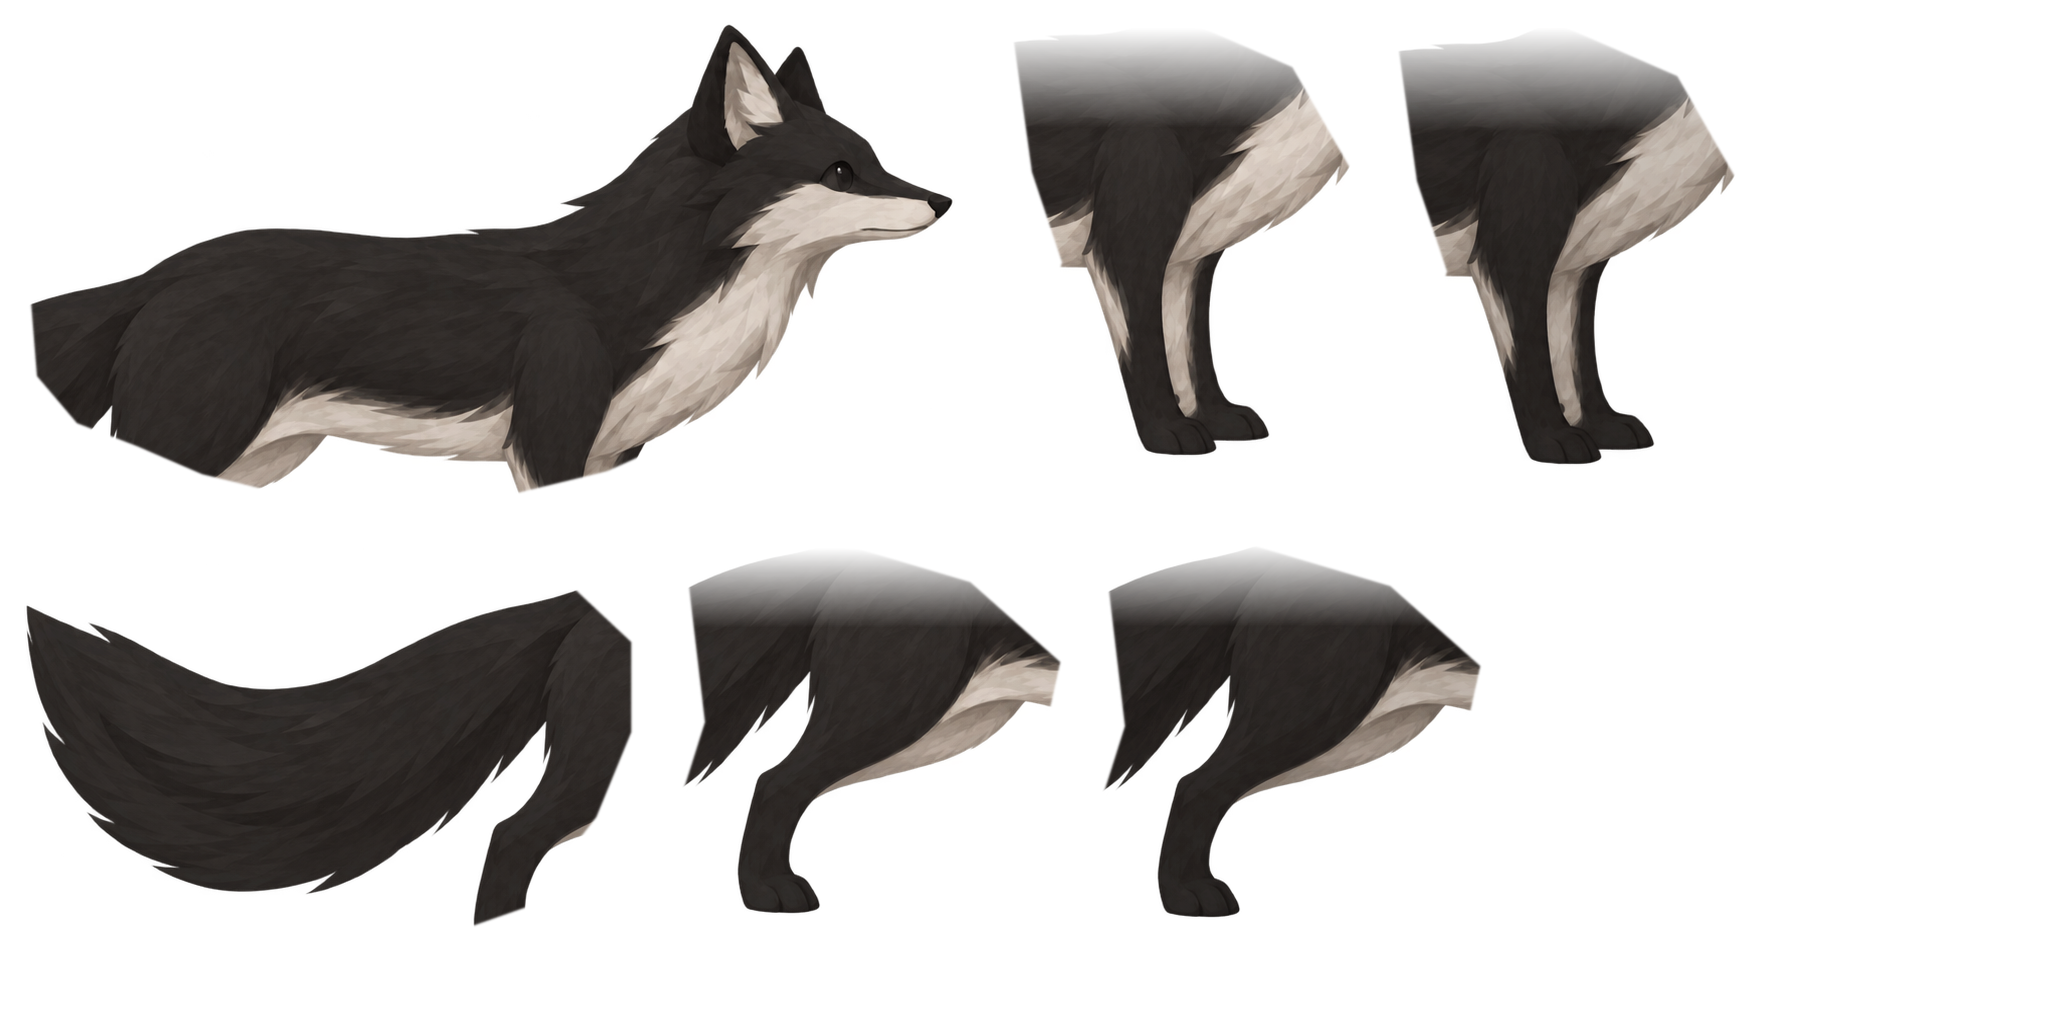
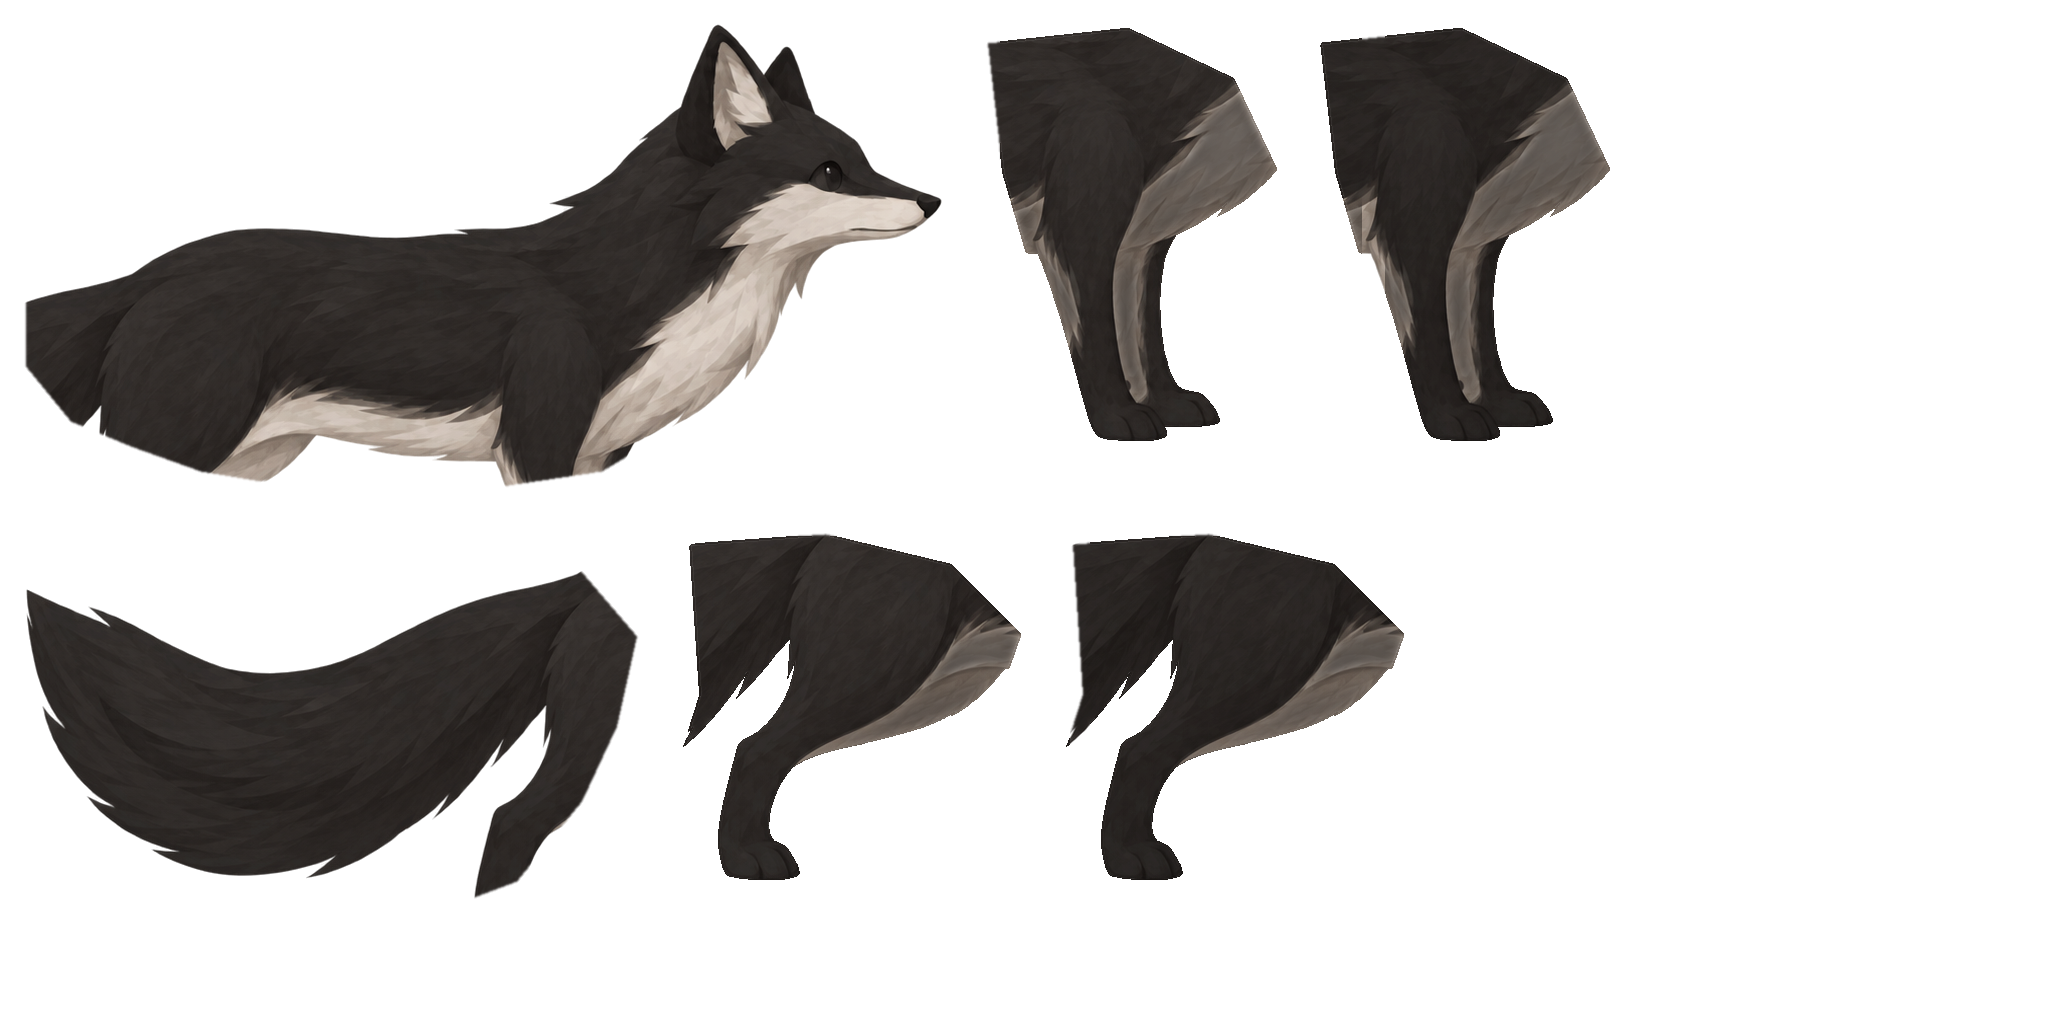
Add files via upload

diff --git a/anim-lab-mesh.js b/anim-lab-mesh.js
@@ -18,37 +18,43 @@
       id:'tail', label:'Tail', order:0, topology:'chain', artRect:{x:16,y:536,w:630,h:404},
       parts:['tail_base','tail_mid','tail_tip'],
       subdivisions:3, scanHalfWidth:.115, maxCap:.070, widthPad:.0035,
-      bones:[['tail0','tail1'],['tail1','tail2'],['tail2','tail3']]
+      bones:[['tail0','tail1'],['tail1','tail2'],['tail2','tail3']],
+      attachBone:['rearBody','midRoot'], attachBlendDistance:.11, attachStrength:.2
     },
     {
       id:'rearFar', label:'Rear Far Leg', order:1, topology:'chain', artRect:{x:1090,y:536,w:400,h:393},
       parts:['far_rear_upper','far_rear_lower_prox','far_rear_lower_dist'],
       subdivisions:3, scanHalfWidth:.075, maxCap:.052, widthPad:.003,
-      bones:[['rearFarRoot','rearFarKnee'],['rearFarKnee','rearFarHock'],['rearFarHock','rearFarFoot']]
+      bones:[['rearFarRoot','rearFarKnee'],['rearFarKnee','rearFarHock'],['rearFarHock','rearFarFoot']],
+      attachBone:['rearBody','midRoot'], attachBlendDistance:.115, attachStrength:.32
     },
     {
       id:'frontFar', label:'Front Far Leg', order:2, topology:'chain', artRect:{x:1385,y:16,w:362,h:458},
       parts:['far_front_upper','far_front_lower_prox','far_front_lower_dist'],
       subdivisions:3, scanHalfWidth:.075, maxCap:.052, widthPad:.003,
-      bones:[['frontFarRoot','frontFarKnee'],['frontFarKnee','frontFarWrist'],['frontFarWrist','frontFarFoot']]
+      bones:[['frontFarRoot','frontFarKnee'],['frontFarKnee','frontFarWrist'],['frontFarWrist','frontFarFoot']],
+      attachBone:['midRoot','frontBody'], attachBlendDistance:.12, attachStrength:.4
     },
     {
       id:'bodyHead', label:'Body + Head', order:3, topology:'grid', artRect:{x:16,y:16,w:947,h:491},
       parts:['torso','head_neck'],
       grid:[9,5],
+      fit:{scaleX:.91,scaleY:.90,offsetYPct:.055},
       bones:[['rearBody','midRoot'],['midRoot','frontBody'],['frontBody','neck'],['neck','head']]
     },
     {
       id:'rearNear', label:'Rear Near Leg', order:4, topology:'chain', artRect:{x:670,y:536,w:400,h:389},
       parts:['near_rear_upper','near_rear_lower_prox','near_rear_lower_dist'],
       subdivisions:3, scanHalfWidth:.075, maxCap:.052, widthPad:.003,
-      bones:[['rearNearRoot','rearNearKnee'],['rearNearKnee','rearNearHock'],['rearNearHock','rearNearFoot']]
+      bones:[['rearNearRoot','rearNearKnee'],['rearNearKnee','rearNearHock'],['rearNearHock','rearNearFoot']],
+      attachBone:['rearBody','midRoot'], attachBlendDistance:.115, attachStrength:.35
     },
     {
       id:'frontNear', label:'Front Near Leg', order:5, topology:'chain', artRect:{x:1000,y:16,w:362,h:449},
       parts:['near_front_upper','near_front_lower_prox','near_front_lower_dist'],
       subdivisions:3, scanHalfWidth:.075, maxCap:.052, widthPad:.003,
-      bones:[['frontNearRoot','frontNearKnee'],['frontNearKnee','frontNearWrist'],['frontNearWrist','frontNearFoot']]
+      bones:[['frontNearRoot','frontNearKnee'],['frontNearKnee','frontNearWrist'],['frontNearWrist','frontNearFoot']],
+      attachBone:['midRoot','frontBody'], attachBlendDistance:.12, attachStrength:.44
     }
   ];
 
@@ -57,7 +63,7 @@
   const TEXELS_PER_LOCAL = 900;
   const ALPHA_THRESHOLD = 10;
   const caches = new Map();
-  const ART_VERSION = '1.0.169';
+  const ART_VERSION = '1.0.171';
   const DEFORM_ATLAS_FILE = 'fox-deform-atlas-v1.png';
   let deformAtlas = null;
   let artRevision = 0;
@@ -243,8 +249,8 @@
     const ranked=bones.map((bone,index)=>{
       const a=bindGeom[bone[0]],b=bindGeom[bone[1]];
       const d=pointSegmentDistance(point,a,b);
-      return {index,score:1/(d*d+0.00055)};
-    }).sort((a,b)=>b.score-a.score).slice(0,2);
+      return {index,score:1/Math.pow(d+0.022,1.7)};
+    }).sort((a,b)=>b.score-a.score).slice(0,3);
     const total=ranked.reduce((s,x)=>s+x.score,0)||1;
     return ranked.map(x=>({index:x.index,weight:x.score/total}));
   }
@@ -470,7 +476,25 @@
       // region keeps a known clean rectangle, then fits into the already-approved
       // bind-space region without changing rig proportions or animation keys.
       const r=dedicated.rect;
-      rctx.drawImage(dedicated.image,r.x,r.y,r.w,r.h,PAD,PAD,Math.max(1,raw.width-PAD*2),Math.max(1,raw.height-PAD*2));
+      const fit=def.fit||{};
+      const innerW=Math.max(1,raw.width-PAD*2), innerH=Math.max(1,raw.height-PAD*2);
+      const scaleX=fit.scaleX ?? fit.scale ?? 1;
+      const scaleY=fit.scaleY ?? fit.scale ?? 1;
+      const drawW=Math.max(1,innerW*scaleX), drawH=Math.max(1,innerH*scaleY);
+      const alignX=fit.alignX ?? .5, alignY=fit.alignY ?? .5;
+      const dx=PAD + (innerW-drawW)*alignX + innerW*(fit.offsetXPct||0) + (fit.offsetX||0);
+      const dy=PAD + (innerH-drawH)*alignY + innerH*(fit.offsetYPct||0) + (fit.offsetY||0);
+      rctx.drawImage(dedicated.image,r.x,r.y,r.w,r.h,dx,dy,drawW,drawH);
+      if(def.topology==='chain'){
+        const image=rctx.getImageData(0,0,raw.width,raw.height);
+        const data=image.data;
+        for(let i=0;i<data.length;i+=4){
+          const a=data[i+3];
+          if(a<70){ data[i+3]=0; continue; }
+          if(a<220)data[i+3]=255;
+        }
+        rctx.putImageData(image,0,0);
+      }
     }else{
       // Safe fallback while images are loading/offline: rebuild from the rigid atlas
       // exactly as M1.1 did, so Deform never disappears because one source failed.
@@ -526,7 +550,21 @@
     const points=region.chainIds.map(id=>poseGeom[id]).filter(Boolean);
     if(points.length!==region.chainIds.length)return vertex.bind;
     const metrics=chainMetrics(points),frame=chainFrame(points,metrics,vertex.chainS);
-    return {x:frame.center.x+frame.normal.x*vertex.offset,y:frame.center.y+frame.normal.y*vertex.offset};
+    let out={x:frame.center.x+frame.normal.x*vertex.offset,y:frame.center.y+frame.normal.y*vertex.offset};
+    const attach=region.attachBone;
+    if(attach&&region.bindGeom&&typeof region.attachBlendDistance==='number'&&region.attachBlendDistance>0){
+      const bindA=region.bindGeom[attach[0]], bindB=region.bindGeom[attach[1]];
+      const poseA=poseGeom[attach[0]], poseB=poseGeom[attach[1]];
+      if(bindA&&bindB&&poseA&&poseB){
+        const attachPos=mapByBone(vertex.bind,bindA,bindB,poseA,poseB);
+        const s=Math.max(0,vertex.chainS||0);
+        const rootBlend=1-clamp(s/region.attachBlendDistance,0,1);
+        const offsetBlend=1-clamp(Math.abs(vertex.offset)/0.085,0,1)*0.35;
+        const t=clamp((region.attachStrength||0.3)*rootBlend*(0.65+offsetBlend),0,0.85);
+        out=lerpPoint(out,attachPos,t);
+      }
+    }
+    return out;
   }
 
   function affineFromTriangles(s0,s1,s2,d0,d1,d2){

diff --git a/walk-lab.html b/walk-lab.html
@@ -133,7 +133,7 @@
   <script src="fox-rig.js?v=1.0.163"></script>
   <script src="walk-lab.js?v=1.0.167"></script>
   <script src="anim-lab-stage2.js?v=1.0.164"></script>
-  <script src="anim-lab-mesh.js?v=1.0.169"></script>
+  <script src="anim-lab-mesh.js?v=1.0.171"></script>
   <script src="anim-lab-stage3.js?v=1.0.163"></script>
   <script src="anim-lab-stage4.js?v=1.0.164"></script>
   <script src="anim-lab-reference.js?v=1.0.163"></script>

diff --git a/README.md b/README.md
@@ -1,34 +1,37 @@
-# SideScroll patch 1.0.169 — Approved charcoal Fox deform atlas
+SideScroll / Aureli
+SS-PATCH-1.0.171
 
-Apply this patch **after 1.0.168**. This ZIP contains only files changed for 1.0.169.
+Patch type
+- changed-files patch for this drop
+- this one also re-bundles the key 1.0.170 deform-fox files because the previous link/share was unclear
 
-## Purpose
+What changed in 1.0.171
+- kept the deform fox atlas from 1.0.170
+- reduced the live fox body/head draw fit in deform mode
+- lowered the body/head placement slightly so live art lines up better with the approved Fox Shape reference in Rig mode
+- bumped the mesh script cache/version query so Safari reloads the updated fit
 
-1.0.168 proved the six-piece deform-art path, but the source pieces came from an exploratory intermediate sheet. This pass replaces that with one clean, deliberately packed atlas cut directly from the already-approved charcoal Fox reference.
+Files in this patch
+- README.md
+- SIDESCROLL_CHARACTER_AUTHORING.md
+- SIDESCROLL_TASKS.md
+- fox-deform-atlas-v1.png
+- anim-lab-mesh.js
+- walk-lab.html
 
-## What changed
+Install
+1. Start from your current SideScroll build.
+2. Copy these files into the project root and replace the existing files.
+3. Hard refresh / close and reopen the PWA if Safari appears cached.
 
-- Added **`fox-deform-atlas-v1.png`**: a 2048 × 1024 transparent deform atlas built directly from `fox-reference-charcoal.png`.
-- The atlas contains six clearly separated regions: Body + Head, Tail, Front Near, Front Far, Rear Near and Rear Far.
-- Front/rear far limbs are derived from the same approved source and slightly darkened for depth rather than being independently regenerated artwork.
-- Near-leg roots use a soft overlap into the shoulder/hip so the next weighting pass can blend them into the body without exposing a hard rectangular cap.
-- `anim-lab-mesh.js` now loads **one atlas** and uses explicit source rectangles for all six meshes instead of loading six unrelated PNGs.
-- The M1.1 topology, twist-safe chain binding, 1.0.167 gesture-performance work, rig and animation clips are unchanged.
-- The rigid Fox atlas remains the loading/failure fallback.
-- Splash preload/service-worker caching now warms the single deform atlas and the preload cache name matches the current runtime cache.
+Suggested iPhone checks
+1. Open Anim Lab.
+2. Character: Fox.
+3. Mode: Rig.
+4. Show Fox Shape static reference.
+5. Confirm the live fox art sits closer to the approved reference and no longer appears oversized relative to it.
+6. Toggle Deform / Rigid and confirm the updated deform fit is visible.
 
-## Why this is the cleaner foundation
-
-The deform art now comes from one approved character source, so colour, fur treatment, scale and silhouette cannot drift independently between six generated images. The atlas is also the format we ultimately want for a reusable skinned-character asset: one texture plus region/mesh metadata.
-
-## Next
-
-The planned next pass is the bespoke Fox weighting pass: front shoulder into Front Body/Neck as appropriate, rear hip into Rear Body/Mid Root, plus tail-root and neck/body tuning. That remains deliberately separate so art problems and weighting problems can be judged independently.
-
-## iPhone check
-
-1. Anim Lab → Fox → Deform.
-2. Check Idle/Walk/Run with Bones and Wireframe off first.
-3. Compare the charcoal appearance with `fox-reference-charcoal.png` / the Rigid view.
-4. Turn Wireframe on and isolate each region; geometry should be unchanged from 1.0.166.
-5. Pay particular attention to the shoulder and hip joins. They are expected to improve further in the bespoke weighting pass, but there should be no stray source-sheet artefacts or unrelated artwork in any region.
+Notes
+- This does not retune paw placement or authored rig proportions.
+- Smaller contact tweaks are still expected to be done in the rig/animation authoring pass.

diff --git a/SIDESCROLL_TASKS.md b/SIDESCROLL_TASKS.md
@@ -2397,3 +2397,8 @@ On-device acceptance:
 - [ ] Confirm 1.0.167 pinch/pan performance remains intact.
 
 Next: bespoke Fox shoulder/hip/tail/neck weighting pass, then use the lessons from that pass to specify the generic weight-authoring workflow.
+
+
+Update 1.0.171
+- Applied a live deform-art scale/alignment correction so the fox body sits closer to the approved reference image in Rig mode.
+- Still to do: expose weight tuning controls, shoulder weighting refinement, and any final rig-side paw/contact polish.

diff --git a/SIDESCROLL_CHARACTER_AUTHORING.md b/SIDESCROLL_CHARACTER_AUTHORING.md
@@ -195,3 +195,7 @@ The exploratory six-image art pass established that dedicated deform source art 
 - The six loose M1.2 images are now legacy exploratory assets and are no longer the runtime deform source.
 
 The next pass should tune Fox-specific weights against this stable atlas before general weight-painting UI is designed.
+
+
+Update 1.0.171
+- Deform Fox body/head fit reduced and lowered slightly to better match the approved Fox Shape reference in Rig mode.
